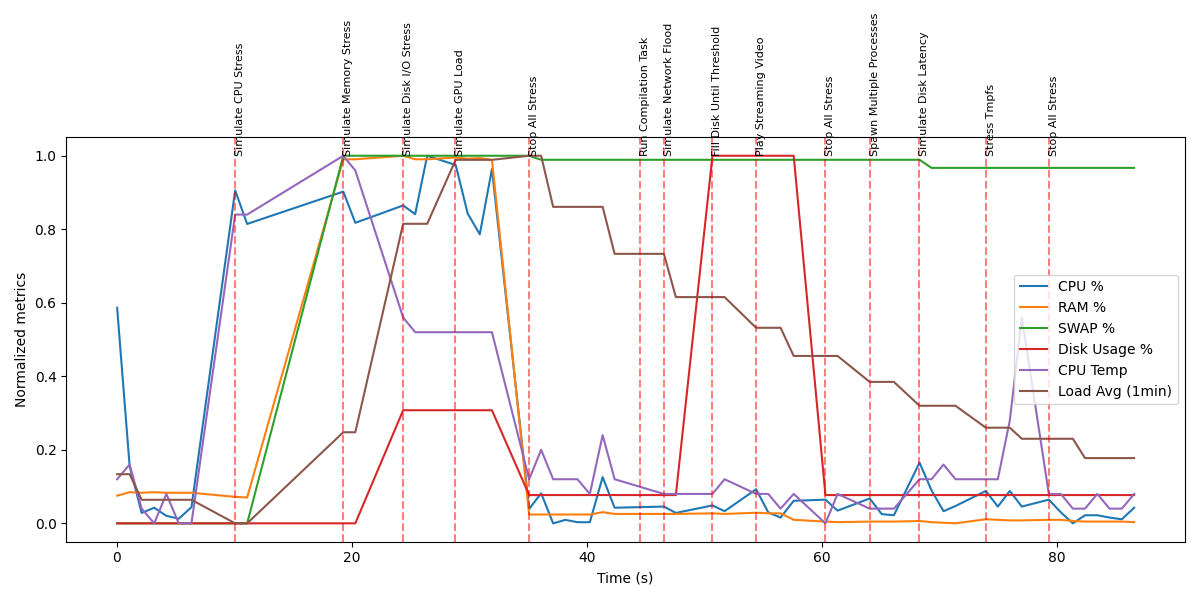
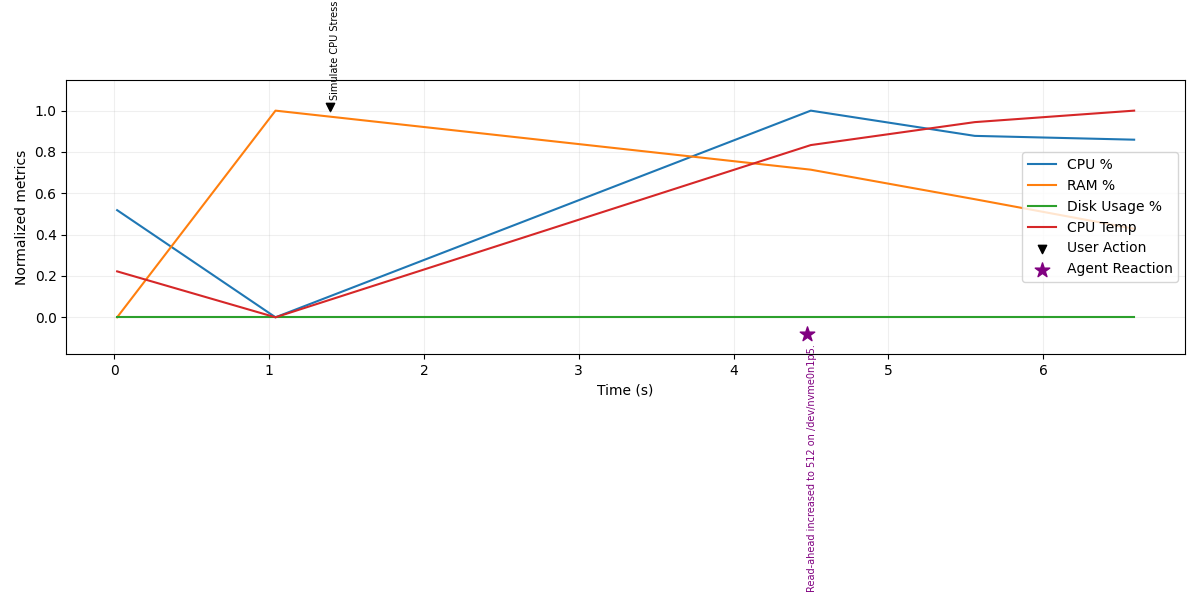
Add agent's reactions to plot

diff --git a/First Scenario - Desktop/gui_interface.py b/First Scenario - Desktop/gui_interface.py
@@ -16,13 +16,14 @@ class KernelTuneGUI:
     def __init__(self, root):
         self.root = root
         self.root.title("Kernel Tune Interface")
-        self.root.geometry("500x900")  # Enlarged window
+        self.root.geometry("500x900")
         self.processes = []
 
         # --- For metrics and logs collection ---
         self.t0 = time.time()
         self.metrics = []
         self.logs = []
+        self.agent_logs = []
         self.collecting = True
 
         # Initialize the EventAgent
@@ -81,6 +82,7 @@ class KernelTuneGUI:
         self.t0 = time.time()
         self.metrics = []
         self.logs = []
+        self.agent_logs = []
         messagebox.showinfo("Timer", "Timer reset.")
 
     def collect_metrics(self):
@@ -89,12 +91,10 @@ class KernelTuneGUI:
             cpu = psutil.cpu_percent()
             ram = psutil.virtual_memory().percent
             swap = psutil.swap_memory().percent
-            # Try to get CPU temperature (Linux only, may require sensors)
             temp = None
             try:
                 temps = psutil.sensors_temperatures()
                 if temps:
-                    # Try to find a CPU sensor
                     for name, entries in temps.items():
                         for entry in entries:
                             if hasattr(entry, 'label') and ('cpu' in entry.label.lower() or 'core' in entry.label.lower()):
@@ -103,19 +103,16 @@ class KernelTuneGUI:
                         if temp is not None:
                             break
                     if temp is None:
-                        # Fallback: take first available temperature
                         for entries in temps.values():
                             if entries:
                                 temp = entries[0].current
                                 break
             except Exception:
                 temp = None
-            # Additional metrics
             disk = psutil.disk_usage('/').percent
             net = psutil.net_io_counters()
             net_sent = net.bytes_sent
             net_recv = net.bytes_recv
-            # Free space in GB
             free_disk_gb = shutil.disk_usage('/').free / (1024**3)
             used_disk_gb = shutil.disk_usage('/').used / (1024**3)
             total_disk_gb = shutil.disk_usage('/').total / (1024**3)
@@ -150,6 +147,10 @@ class KernelTuneGUI:
         t = time.time() - self.t0
         self.logs.append({"time": t, "action": action})
 
+    def log_agent_reaction(self, reaction):
+        t = time.time() - self.t0
+        self.agent_logs.append({"time": t, "reaction": reaction})
+
     def generate_plot(self):
         if not self.metrics:
             messagebox.showerror("Plot", "No data to display.")
@@ -177,14 +178,19 @@ class KernelTuneGUI:
             plt.plot(times, temp_norm, label="CPU Temp", color='tab:red')
         plt.grid(alpha=0.2)
 
-        # Discrete action markers (triangle)
+        # User action markers 
         for log in self.logs:
-            plt.scatter(log["time"], 1.02, marker="v", color="black")
+            plt.scatter(log["time"], 1.02, marker="v", color="black", label="User Action" if log == self.logs[0] else "")
             plt.text(log["time"], 1.05, log["action"], rotation=90, verticalalignment='bottom', fontsize=7)
+
+        # Agent reaction markers 
+        for agent_log in self.agent_logs:
+            plt.scatter(agent_log["time"], -0.08, marker="*", color="purple", s=120, label="Agent Reaction" if agent_log == self.agent_logs[0] else "")
+            plt.text(agent_log["time"], -0.13, agent_log["reaction"], rotation=90, verticalalignment='top', fontsize=7, color="purple")
 
         plt.xlabel("Time (s)")
         plt.ylabel("Normalized metrics")
-        plt.ylim(0, 1.15)
+        plt.ylim(-0.18, 1.15)
         plt.legend()
         plt.tight_layout()
         plots_dir = os.path.join(os.path.dirname(__file__), "plots")
@@ -228,7 +234,6 @@ class KernelTuneGUI:
                 f.write(f"{log['time']:.2f}s : {log['action']}\n")
         messagebox.showinfo("Logs", f"Action logs saved in {log_path}")
 
-    # --- Actions (ajoute log_action à chaque action) ---
     def simulate_cpu_stress(self):
         def _cpu_stress_worker():
             while True:
@@ -238,30 +243,38 @@ class KernelTuneGUI:
             process = multiprocessing.Process(target=_cpu_stress_worker)
             process.start()
             self.processes.append(process)
-        self.agent.handle_event("Simulate CPU Stress")
         self.log_action("Simulate CPU Stress")
+        time.sleep(1)
+        reaction = self.agent.handle_event("Simulate CPU Stress", plot=True)
+        self.log_agent_reaction(reaction)
         messagebox.showinfo("Action", "CPU stress simulation started.")
 
     def simulate_memory_stress(self):
         print("Simulating memory stress...")
         self.memory_stress = [" " * 10**6 for _ in range(10**4)]
-        self.agent.handle_event("Simulate Memory Stress")
         self.log_action("Simulate Memory Stress")
+        time.sleep(1)
+        reaction = self.agent.handle_event("Simulate Memory Stress", plot=True)
+        self.log_agent_reaction(reaction)
         messagebox.showinfo("Action", "Memory stress simulation started.")
 
     def simulate_disk_io_stress(self):
         print("Simulating disk I/O stress...")
         subprocess.run(["dd", "if=/dev/zero", "of=/tmp/largefile", "bs=1M", "count=256"])
-        self.agent.handle_event("Simulate Disk I/O Stress")
         self.log_action("Simulate Disk I/O Stress")
+        time.sleep(1)
+        reaction = self.agent.handle_event("Simulate Disk I/O Stress", plot=True)
+        self.log_agent_reaction(reaction)
         messagebox.showinfo("Action", "Disk I/O stress simulation completed.")
 
     def simulate_gpu_load(self):
         print("Simulating GPU load...")
         try:
             subprocess.Popen(["glxgears"], stderr=subprocess.DEVNULL, stdout=subprocess.DEVNULL)
-            self.agent.handle_event("Simulate GPU Load")
             self.log_action("Simulate GPU Load")
+            time.sleep(1)
+            reaction = self.agent.handle_event("Simulate GPU Load", plot=True)
+            self.log_agent_reaction(reaction)
             messagebox.showinfo("Action", "GPU load simulation started.")
         except FileNotFoundError:
             messagebox.showerror("Error", "glxgears not found. Please install it.")
@@ -284,15 +297,19 @@ class KernelTuneGUI:
         except Exception as e:
             messagebox.showerror("Error", f"An unexpected error occurred:\n{e}")
         finally:
-            self.agent.handle_event("Run Compilation Task")
             self.log_action("Run Compilation Task")
+            time.sleep(1)
+            reaction = self.agent.handle_event("Run Compilation Task", plot=True)
+            self.log_agent_reaction(reaction)
 
     def simulate_network_flood(self):
         print("Simulating network flood...")
         try:
             subprocess.Popen(["ping", "-f", "8.8.8.8"], stderr=subprocess.DEVNULL, stdout=subprocess.DEVNULL)
-            self.agent.handle_event("Simulate Network Flood")
             self.log_action("Simulate Network Flood")
+            time.sleep(1)
+            reaction = self.agent.handle_event("Simulate Network Flood", plot=True)
+            self.log_agent_reaction(reaction)
             messagebox.showinfo("Action", "Network flood simulation started.")
         except FileNotFoundError:
             messagebox.showerror("Error", "Ping command not found.")
@@ -301,8 +318,10 @@ class KernelTuneGUI:
         print("Filling disk until threshold...")
         try:
             subprocess.run(["dd", "if=/dev/zero", "of=/tmp/fillfile", "bs=1M", "count=1024"])
-            self.agent.handle_event("Fill Disk Until Threshold")
             self.log_action("Fill Disk Until Threshold")
+            time.sleep(1)
+            reaction = self.agent.handle_event("Fill Disk Until Threshold", plot=True)
+            self.log_agent_reaction(reaction)
             messagebox.showinfo("Action", "Disk filling simulation completed.")
         except FileNotFoundError:
             messagebox.showerror("Error", "dd command not found.")
@@ -311,8 +330,10 @@ class KernelTuneGUI:
         print("Playing streaming video...")
         try:
             subprocess.Popen(["vlc", "https://www.youtube.com/watch?v=dQw4w9WgXcQ"], stderr=subprocess.DEVNULL, stdout=subprocess.DEVNULL)
-            self.agent.handle_event("Play Streaming Video")
             self.log_action("Play Streaming Video")
+            time.sleep(1)
+            reaction = self.agent.handle_event("Play Streaming Video", plot=True)
+            self.log_agent_reaction(reaction)
             messagebox.showinfo("Action", "Streaming video started.")
         except FileNotFoundError:
             messagebox.showerror("Error", "VLC not found. Please install it.")
@@ -323,8 +344,10 @@ class KernelTuneGUI:
             for _ in range(100):
                 process = subprocess.Popen(["sleep", "100"])
                 self.processes.append(process)
-            self.agent.handle_event("Spawn Multiple Processes")
             self.log_action("Spawn Multiple Processes")
+            time.sleep(1)
+            reaction = self.agent.handle_event("Spawn Multiple Processes", plot=True)
+            self.log_agent_reaction(reaction)
             messagebox.showinfo("Action", "Spawned multiple processes.")
         except Exception as e:
             messagebox.showerror("Error", f"An unexpected error occurred:\n{e}")
@@ -333,8 +356,10 @@ class KernelTuneGUI:
         print("Simulating disk latency...")
         try:
             subprocess.Popen(["stress-ng", "--io", "1", "--timeout", "30"], stderr=subprocess.DEVNULL, stdout=subprocess.DEVNULL)
-            self.agent.handle_event("Simulate Disk Latency")
             self.log_action("Simulate Disk Latency")
+            time.sleep(1)
+            reaction = self.agent.handle_event("Simulate Disk Latency", plot=True)
+            self.log_agent_reaction(reaction)
             messagebox.showinfo("Action", "Disk latency simulation started.")
         except FileNotFoundError:
             messagebox.showerror("Error", "stress-ng not found. Please install it.")
@@ -343,8 +368,10 @@ class KernelTuneGUI:
         print("Stressing tmpfs...")
         try:
             subprocess.run(["dd", "if=/dev/zero", "of=/dev/shm/tmpfile", "bs=1M", "count=512"])
-            self.agent.handle_event("Stress Tmpfs")
             self.log_action("Stress Tmpfs")
+            time.sleep(1)
+            reaction = self.agent.handle_event("Stress Tmpfs", plot=True)
+            self.log_agent_reaction(reaction)
             messagebox.showinfo("Action", "Tmpfs stress simulation completed.")
         except FileNotFoundError:
             messagebox.showerror("Error", "dd command not found.")
@@ -366,7 +393,8 @@ class KernelTuneGUI:
         os.system("pkill glxgears")
         os.system("pkill vlc")
         os.system("pkill ping")
-        self.agent.handle_event("Stop All Stress")
+        reaction = self.agent.handle_event("Stop All Stress", plot=True)
+        self.log_agent_reaction(reaction)
         self.log_action("Stop All Stress")
         messagebox.showinfo("Action", "Resources cleaned.")
 

diff --git a/First Scenario - Desktop/agent.py b/First Scenario - Desktop/agent.py
@@ -115,19 +115,23 @@ class EventAgent:
         if 100 - self.state["disk_usage"] < self.thresholds["low_disk_space"]:
             self.handle_event("Low Disk Space")
 
-    def handle_event(self, event_type):
+    def handle_event(self, event_type, plot=False):
         """
         Handle events triggered by GUI or thresholds.
+        If plot=True, return the action description for display.
         """
         print(f"Event received: {event_type}")
         state = self.get_normalized_state()
-        action = self.select_action(state)
-        self.apply_action(action)
+        action_idx = self.select_action(state)
+        action_name = self.actions[action_idx]
+        reaction_text = self.apply_action(action_idx, return_text=plot)
         time.sleep(1)
         self.update_metrics_once()
         new_state = self.get_normalized_state()
         reward = self.compute_reward(state, new_state)
-        self.learn(state, action, reward, new_state)
+        self.learn(state, action_idx, reward, new_state)
+        if plot:
+            return reaction_text
 
     def update_metrics_once(self):
         """
@@ -178,50 +182,55 @@ class EventAgent:
         else:
             return np.argmax(self.q_table[discretized_state])
 
-    def apply_action(self, action_idx):
+    def apply_action(self, action_idx, return_text=False):
         """
         Apply the selected action to the system.
+        If return_text is True, return a description of the action.
         """
         action = self.actions[action_idx]
+        reaction = ""
         if action == "reduce_swappiness":
             os.system("sudo sysctl -w vm.swappiness=10")
-            print("Swappiness reduced to 10.")
+            reaction = "Swappiness reduced to 10."
         elif action == "increase_dirty_ratio":
             os.system("sudo sysctl -w vm.dirty_ratio=40")
-            print("Dirty ratio increased to 40.")
+            reaction = "Dirty ratio increased to 40."
         elif action == "set_cpu_powersave":
             os.system("sudo sh -c 'echo powersave > /sys/devices/system/cpu/cpu0/cpufreq/scaling_governor'")
-            print("CPU set to powersave mode.")
+            reaction = "CPU set to powersave mode."
         elif action == "set_cpu_performance":
             os.system("sudo sh -c 'echo performance > /sys/devices/system/cpu/cpu0/cpufreq/scaling_governor'")
-            print("CPU set to performance mode.")
+            reaction = "CPU set to performance mode."
         elif action == "lower_process_priority":
             os.system("sudo renice +10 -p $(pgrep stress)")
-            print("Process priority lowered.")
+            reaction = "Process priority lowered."
         elif action == "reduce_io_threads":
             os.system("sudo pkill -f 'stress-ng --io'")
-            print("Simulated reduction of I/O threads by killing stress-ng I/O processes.")
+            reaction = "Kill stress-ng I/O processes."
         elif action == "drop_caches":
             os.system("sudo sh -c 'echo 3 > /proc/sys/vm/drop_caches'")
-            print("Caches dropped.")
+            reaction = "Caches dropped."
         elif action == "enable_zswap":
             os.system("sudo sh -c 'echo 1 > /sys/module/zswap/parameters/enabled'")
-            print("Zswap enabled.")
+            reaction = "Zswap enabled."
         elif action == "increase_read_ahead":
             disk = get_main_disk()
             os.system(f"sudo blockdev --setra 512 {disk}")
-            print(f"Read-ahead increased to 512 on {disk}.")
+            reaction = f"Read-ahead increased to 512."
         elif action == "kill_stress_processes":
             os.system("sudo pkill -f stress-ng")
             os.system("sudo pkill -f yes")
             os.system("sudo pkill -f vlc")
             os.system("sudo pkill -f iperf3")
-            print("All stress processes killed.")
+            reaction = "All stress processes killed."
         elif action == "clean_tmp":
             os.system("sudo rm -rf /tmp/*")
-            print("Temporary files cleaned.")
+            reaction = "Temporary files cleaned."
         else:
-            print(f"Unknown action: {action}")
+            reaction = f"Unknown action: {action}"
+        print(reaction)
+        if return_text:
+            return reaction
 
     def compute_reward(self, state, new_state, debug=False):
         """
